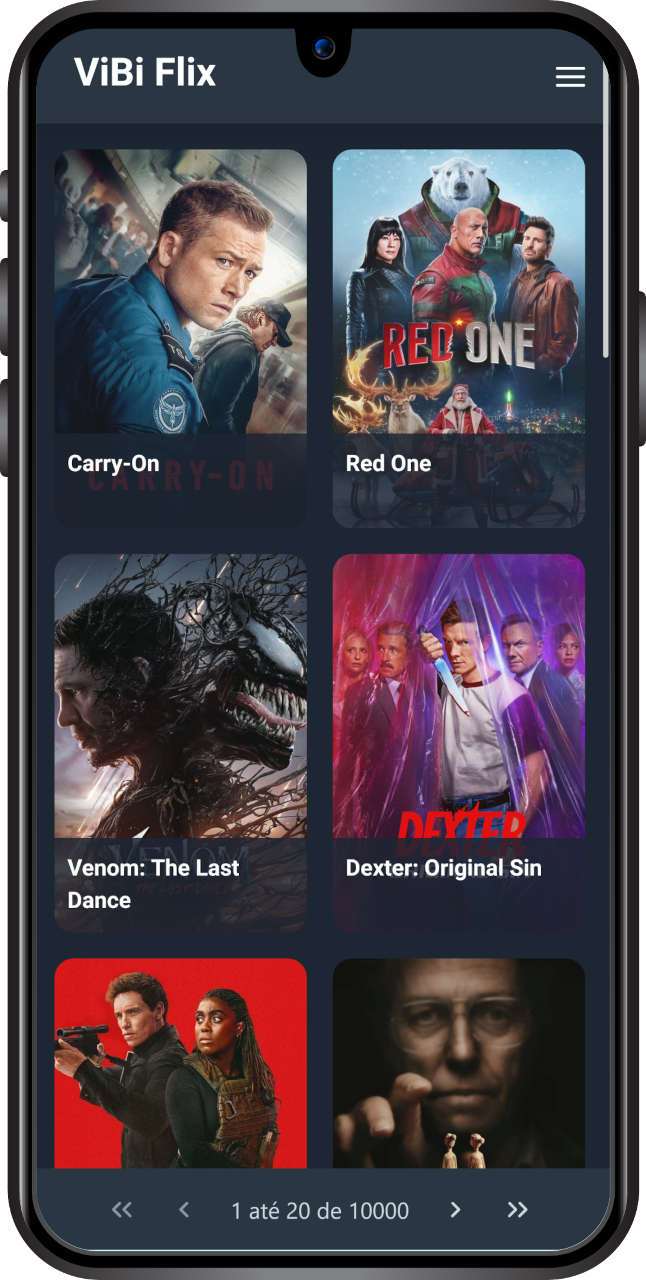
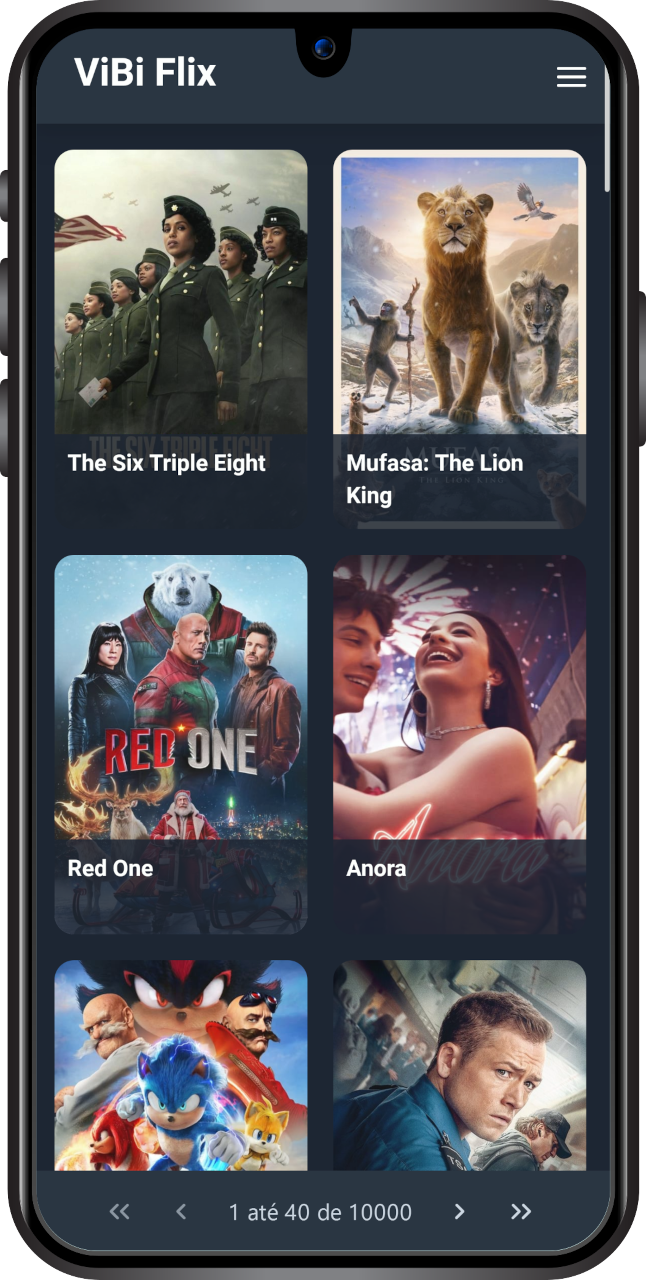
[Fix] Fix number of rows in paginator and change endpoints in rest

diff --git a/src/components/PaginatorPages.vue b/src/components/PaginatorPages.vue
@@ -2,26 +2,27 @@
   <section class="page">
     <section class="fixed bottom-0 w-full">
       <paginator-on 
-        :rows="20" 
+        :rows="rowsPerPage" 
         :totalRecords="totalRecords" 
-        :first="(currentPage - 1) * 20" 
+        :first="(currentPage - 1) * rowsPerPage" 
         :pageCount="maxPages"
         template="FirstPageLink PrevPageLink CurrentPageReport NextPageLink LastPageLink"
         currentPageReportTemplate="{first} até {last} de {totalRecords}" 
         @page="onPageChange" 
         :pt="{
-            root: {
-              class: [
-              'bg-gray-800', 'text-sm md:text-base', 'rounded-none', 
+          root: {
+            class: [
+              'bg-gray-800', 'text-sm md:text-base', 'rounded-none',
               'text-slate-300', 'py-1 lg:py-0', 'sd: p-1'
-              ]
-            },
-            current: ['text-slate-300'],
-            firstpagebutton: ['hover:bg-gray-700 active:scale-90'],
-            previouspagebutton: ['hover:bg-gray-700 active:scale-90'],
-            nextpagebutton: ['hover:bg-gray-700 active:scale-90'],
-            lastpagebutton: ['hover:bg-gray-700 active:scale-90']
-          }"/>
+            ]
+          },
+          current: ['text-slate-300'],
+          firstpagebutton: ['hover:bg-gray-700 active:scale-90'],
+          previouspagebutton: ['hover:bg-gray-700 active:scale-90'],
+          nextpagebutton: ['hover:bg-gray-700 active:scale-90'],
+          lastpagebutton: ['hover:bg-gray-700 active:scale-90']
+        }" 
+      />
     </section>
   </section>
 </template>
@@ -56,6 +57,11 @@ export default defineComponent({
           page: event.page + 1
         }
       });
+    }
+  },
+  computed: {
+    rowsPerPage(): number {
+      return this.$route.name === 'home' ? 40 : 20;
     }
   }
 });

diff --git a/src/views/Home/home.service.ts b/src/views/Home/home.service.ts
@@ -1,25 +1,16 @@
 import { HomeRest } from "@/service/rest/home.rest";
-import { Subject, Observable, take, forkJoin } from "rxjs";
-
-interface MediaResponse {
-    results: any[];
-    total_results: number;
-    total_pages: number;
-}
+import { Subject, Observable, take } from "rxjs";
 
 export class HomeService {
     constructor(
         private _allMedia = new HomeRest()
     ) { }
 
-    private allMedia$: Subject<MediaResponse> = new Subject<MediaResponse>();
-    allMedia: Observable<MediaResponse> = this.allMedia$.asObservable();
+    private allMedia$: Subject<any> = new Subject<any>();
+    allMedia: Observable<any> = this.allMedia$.asObservable();
 
     getAllMedia(page: number = 1): void {
-        forkJoin({
-            movies: this._allMedia.getPopularMovies(page),
-            series: this._allMedia.getPopularSeries(page)
-        })
+        this._allMedia.getPopularMoviesAndSeries(page)
             .pipe(take(1))
             .subscribe({
                 next: ({ movies, series }) => {
@@ -27,6 +18,7 @@ export class HomeService {
                         ...movies.results,
                         ...series.results
                     ];
+
                     this.allMedia$.next({
                         results: allResults,
                         total_results: movies.total_results + series.total_results,

diff --git a/src/service/rest/home.rest.ts b/src/service/rest/home.rest.ts
@@ -1,15 +1,22 @@
-import { Observable } from "rxjs";
+import { forkJoin, Observable } from "rxjs";
 import api from "../rxjs";
 
 export class HomeRest {
 
     getPopularMovies(page: number = 1): Observable<any> {
-        const url = `/movie/popular?page=${page}`;
+        const url = `/trending/movie/day?page=${page}`;
         return api.get(url);
     }
 
     getPopularSeries(page: number = 1): Observable<any> {
-        const url = `/tv/popular?page=${page}`;
+        const url = `/trending/tv/day?page=${page}`;
         return api.get(url);
+    }
+
+    getPopularMoviesAndSeries(page: number = 1): Observable<any> {
+        return forkJoin({
+            movies: this.getPopularMovies(page),
+            series: this.getPopularSeries(page)
+        });
     }
 }
